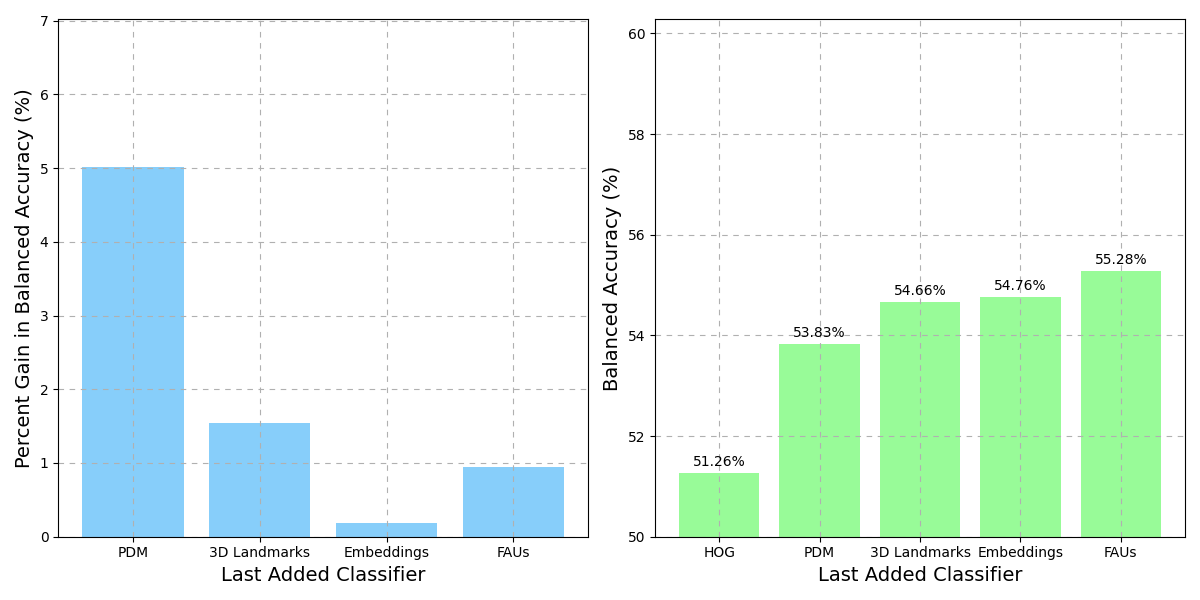
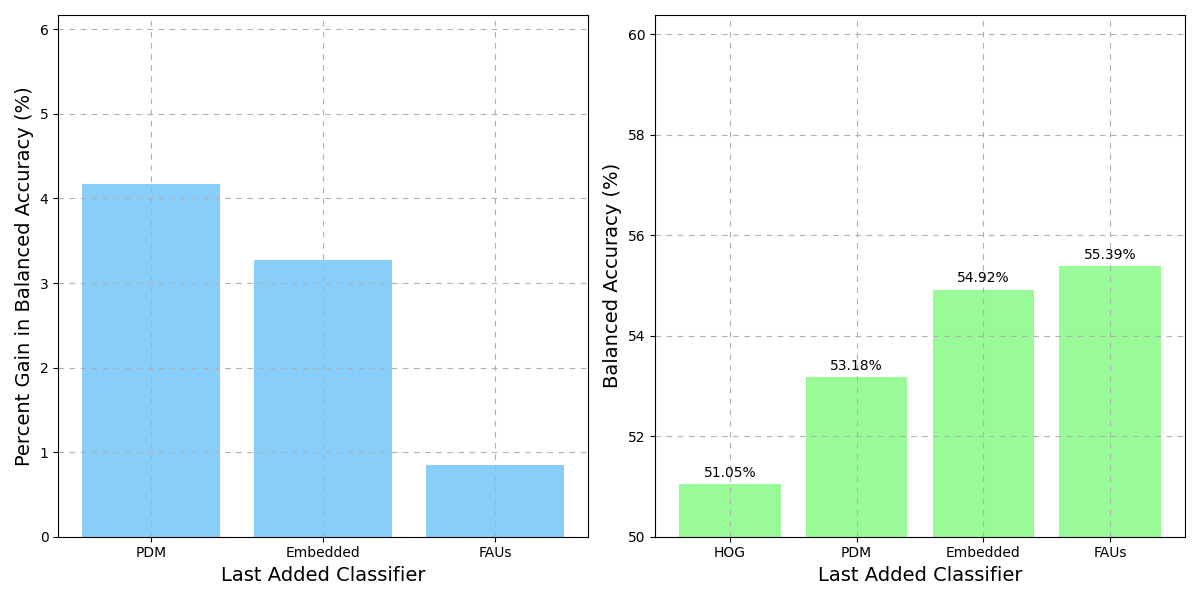
Add new feature selection to concat experiment

diff --git a/concatenated_experiment.py b/concatenated_experiment.py
@@ -53,10 +53,13 @@ def load_and_concatenate_features(dataset_type):
 
     path = f'{args.experiment_dir}/{dataset_type}_concatenated_features.npy'
 
-    if os.path.exists(path):
-        return path
+    names_path = f'{args.experiment_dir}/feature_names.npy'
+
+    if os.path.exists(path) and os.path.exists(names_path):
+        return path, np.load(names_path)
 
     X_list = []
+    feature_names = []
 
     for feature in feature_types.keys():
         logger.info(f'Loading {feature}...')
@@ -69,6 +72,8 @@ def load_and_concatenate_features(dataset_type):
         else:
             data = np.load(file_path, mmap_mode='r').astype(np.float32)
         X_list.append(data)
+        f_names = [f'{feature}_{i}' for i in range(data.shape[1])]
+        feature_names.extend(f_names)
 
         # Explicitly free memory
         del data
@@ -84,10 +89,11 @@ def load_and_concatenate_features(dataset_type):
     logger.info('Data loaded and concatenated')
 
     np.save(path, X)
+    np.save(names_path, feature_names)
 
     logger.info('Data saved')
 
-    return path
+    return path, feature_names
 
 
 def filter_selection(X_train_path, X_val_path, X_test_path, y_train, k_features=200):
@@ -114,6 +120,38 @@ def filter_selection(X_train_path, X_val_path, X_test_path, y_train, k_features=
 
     return X_selected_train_path, X_selected_val_path, X_selected_test_path
 
+
+def linear_selection(X_train_path, X_val_path, X_test_path, feature_names, y_train):
+    X_selected_train_path = f'{args.experiment_dir}/train_selectedFM.npy'
+    X_selected_val_path = f'{args.experiment_dir}/val_selectedFM.npy'
+    X_selected_test_path = f'{args.experiment_dir}/test_selectedFM.npy'
+
+    if os.path.exists(X_selected_train_path):
+        logger.info('Selected features FM already exist')
+        return X_selected_train_path, X_selected_val_path, X_selected_test_path
+    logger.info('Selecting features from Model...')
+
+    from sklearn.feature_selection import SelectFromModel
+    lsvc = LinearSVC(C=0.01, penalty='l1', class_weight='balanced')
+    lsvc.fit(X_train_path, y_train)
+    selector = SelectFromModel(lsvc, prefit=True)
+
+    try:
+        feature_names = [feature_names[i] for i in selector.get_support(indices=True)]
+        np.save(f'{args.experiment_dir}/feature_names_SFM.npy', feature_names)
+        logger.info('SFM Feature names saved')
+    except:
+        logger.info('SFM Feature names not saved')
+
+    X_train = selector.transform(np.load(X_train_path).astype(np.float32))
+    X_val = selector.transform(np.load(X_val_path).astype(np.float32))
+    X_test = selector.transform(np.load(X_test_path).astype(np.float32))
+
+    np.save(X_selected_train_path, X_train)
+    np.save(X_selected_val_path, X_val)
+    np.save(X_selected_test_path, X_test)
+
+    return X_selected_train_path, X_selected_val_path, X_selected_test_path
 
 
 
@@ -264,10 +302,11 @@ if __name__ == '__main__':
     logger.info(f'Preparing concatenated data')
     y_train = np.load(f'y_train.npy')
 
-    X_train_path = load_and_concatenate_features('train')
-    X_val_path = load_and_concatenate_features('val')
-    X_test_path = load_and_concatenate_features('test')
+    X_train_path, feature_names = load_and_concatenate_features('train')
+    X_val_path, _ = load_and_concatenate_features('val')
+    X_test_path, _ = load_and_concatenate_features('test')
 
+    X_train_path, X_val_path, X_test_path = linear_selection(X_train_path, X_val_path, X_test_path, feature_names, y_train)
 
     #X_train_path, X_val_path, X_test_path = filter_selection(X_train_path, X_val_path, X_test_path, y_train, k_features=200)
 
@@ -281,20 +320,20 @@ if __name__ == '__main__':
     nn = NeuralNetwork(input_dim=X_train.shape[1],  class_weight=class_weights, num_epochs=20, batch_size=128)
     #linearSVC = LinearSVC(class_weight='balanced', C=0.1, probability=True)
     #rf = RandomForestClassifier(n_estimators=200, max_depth=None, class_weight=class_weights)
-    lr = CumlLogisticRegression(class_weight='balanced', C=1)
+    #lr = CumlLogisticRegression(class_weight='balanced', C=1)
     svm = SVC(class_weight='balanced', probability=True, kernel='rbf', C=1)
     #mlp = MLP(batch_size=128, num_epochs=30, hidden_size=256, input_size=X_train.shape[1], class_weight=class_weights, learning_rate=0.01, num_classes=8)
     nn.__class__.__name__ = 'NeuralNetwork'
     #rf.__class__.__name__ = 'RandomForestClassifier'
     svm.__class__.__name__ = 'SVC'
-    lr.__class__.__name__ = 'LogisticRegression'
+    #lr.__class__.__name__ = 'LogisticRegression'
     #linearSVC.__class__.__name__ = 'LinearSVC'
     #mlp.__class__.__name__ = 'MLP'
 
 
     models = [
         nn,
-        lr,
+        #lr,
         #linearSVC,
         #rf,
         svm,

diff --git a/src/visualizations/relative_gain_stacking.py b/src/visualizations/relative_gain_stacking.py
@@ -4,14 +4,14 @@ from matplotlib import pyplot as plt
 INCLUDE_CONCAT = False
 
 # The models, a subset starting with i=1 (only hog) and ending with i=5 (all models) are used to train a stacking classifier
-models = ['HOG', 'PDM', '3D Landmarks', 'Embeddings', 'FAUs']
+models = ['HOG', 'PDM', 'Embedded', 'FAUs'] # HOG, PDM, Embedded Facs
 
 # The relative gain in accuracy for each added classifier, starting with only hog and ending with all
-test_accuracies = [0.512594131394443, 0.5383017398078421, 0.5466112698000519, 0.5476499610490781, 0.5528434172942093]
+test_accuracies = [0.5105167488963905, 0.5318099195014282,  0.5492079979226175, 0.5538821085432355]
 
 if INCLUDE_CONCAT:
-    models = ['Concatenated', 'HOG', 'PDM', '3D Landmarks', 'Embeddings', 'FAUs']
-    test_accuracies = [0.5323292651259414,0.5429758504284602,0.5551804726045183, 0.5549207997922617, 0.558296546351597, 0.560633601661906]
+    models = ['HOG', 'Concatenated', 'Embeddings', '3D Landmarks', 'FAUs']
+    test_accuracies = [0.5105167488963905, 0.5476499610490781, 0.555959491041288, 0.5564788366658011, 0.5616722929109322]
 # Same as above but uses the validation set bal accs, just for comparison
 #val_bal_acc = [0.5216863128236839,0.5532726368952153,0.5564732083637857, 0.5680217733510686,0.56829543150788]
 
